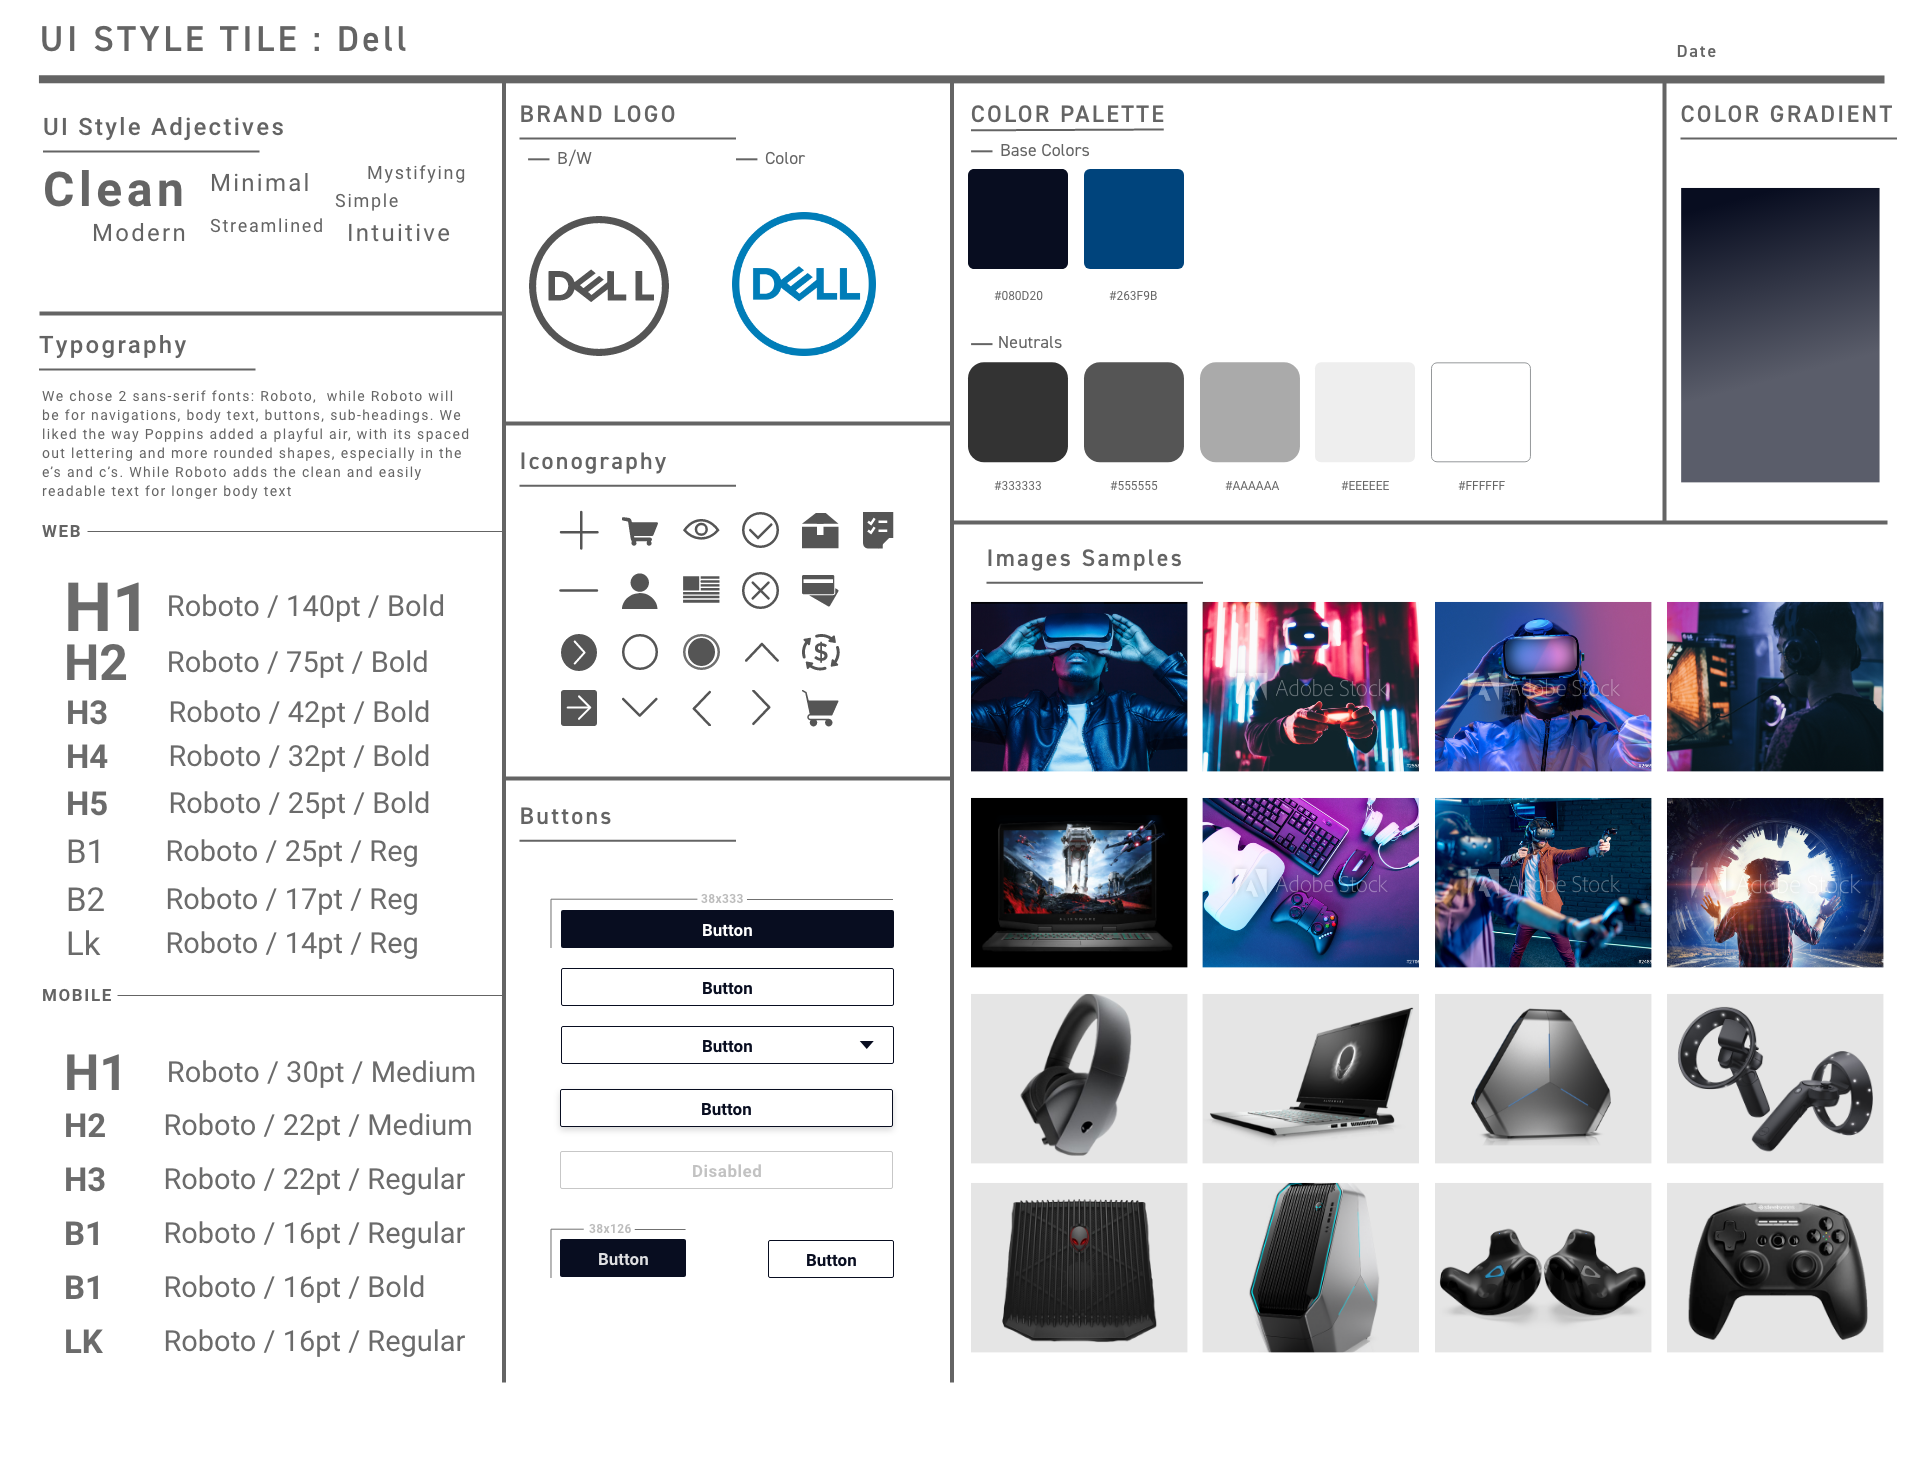
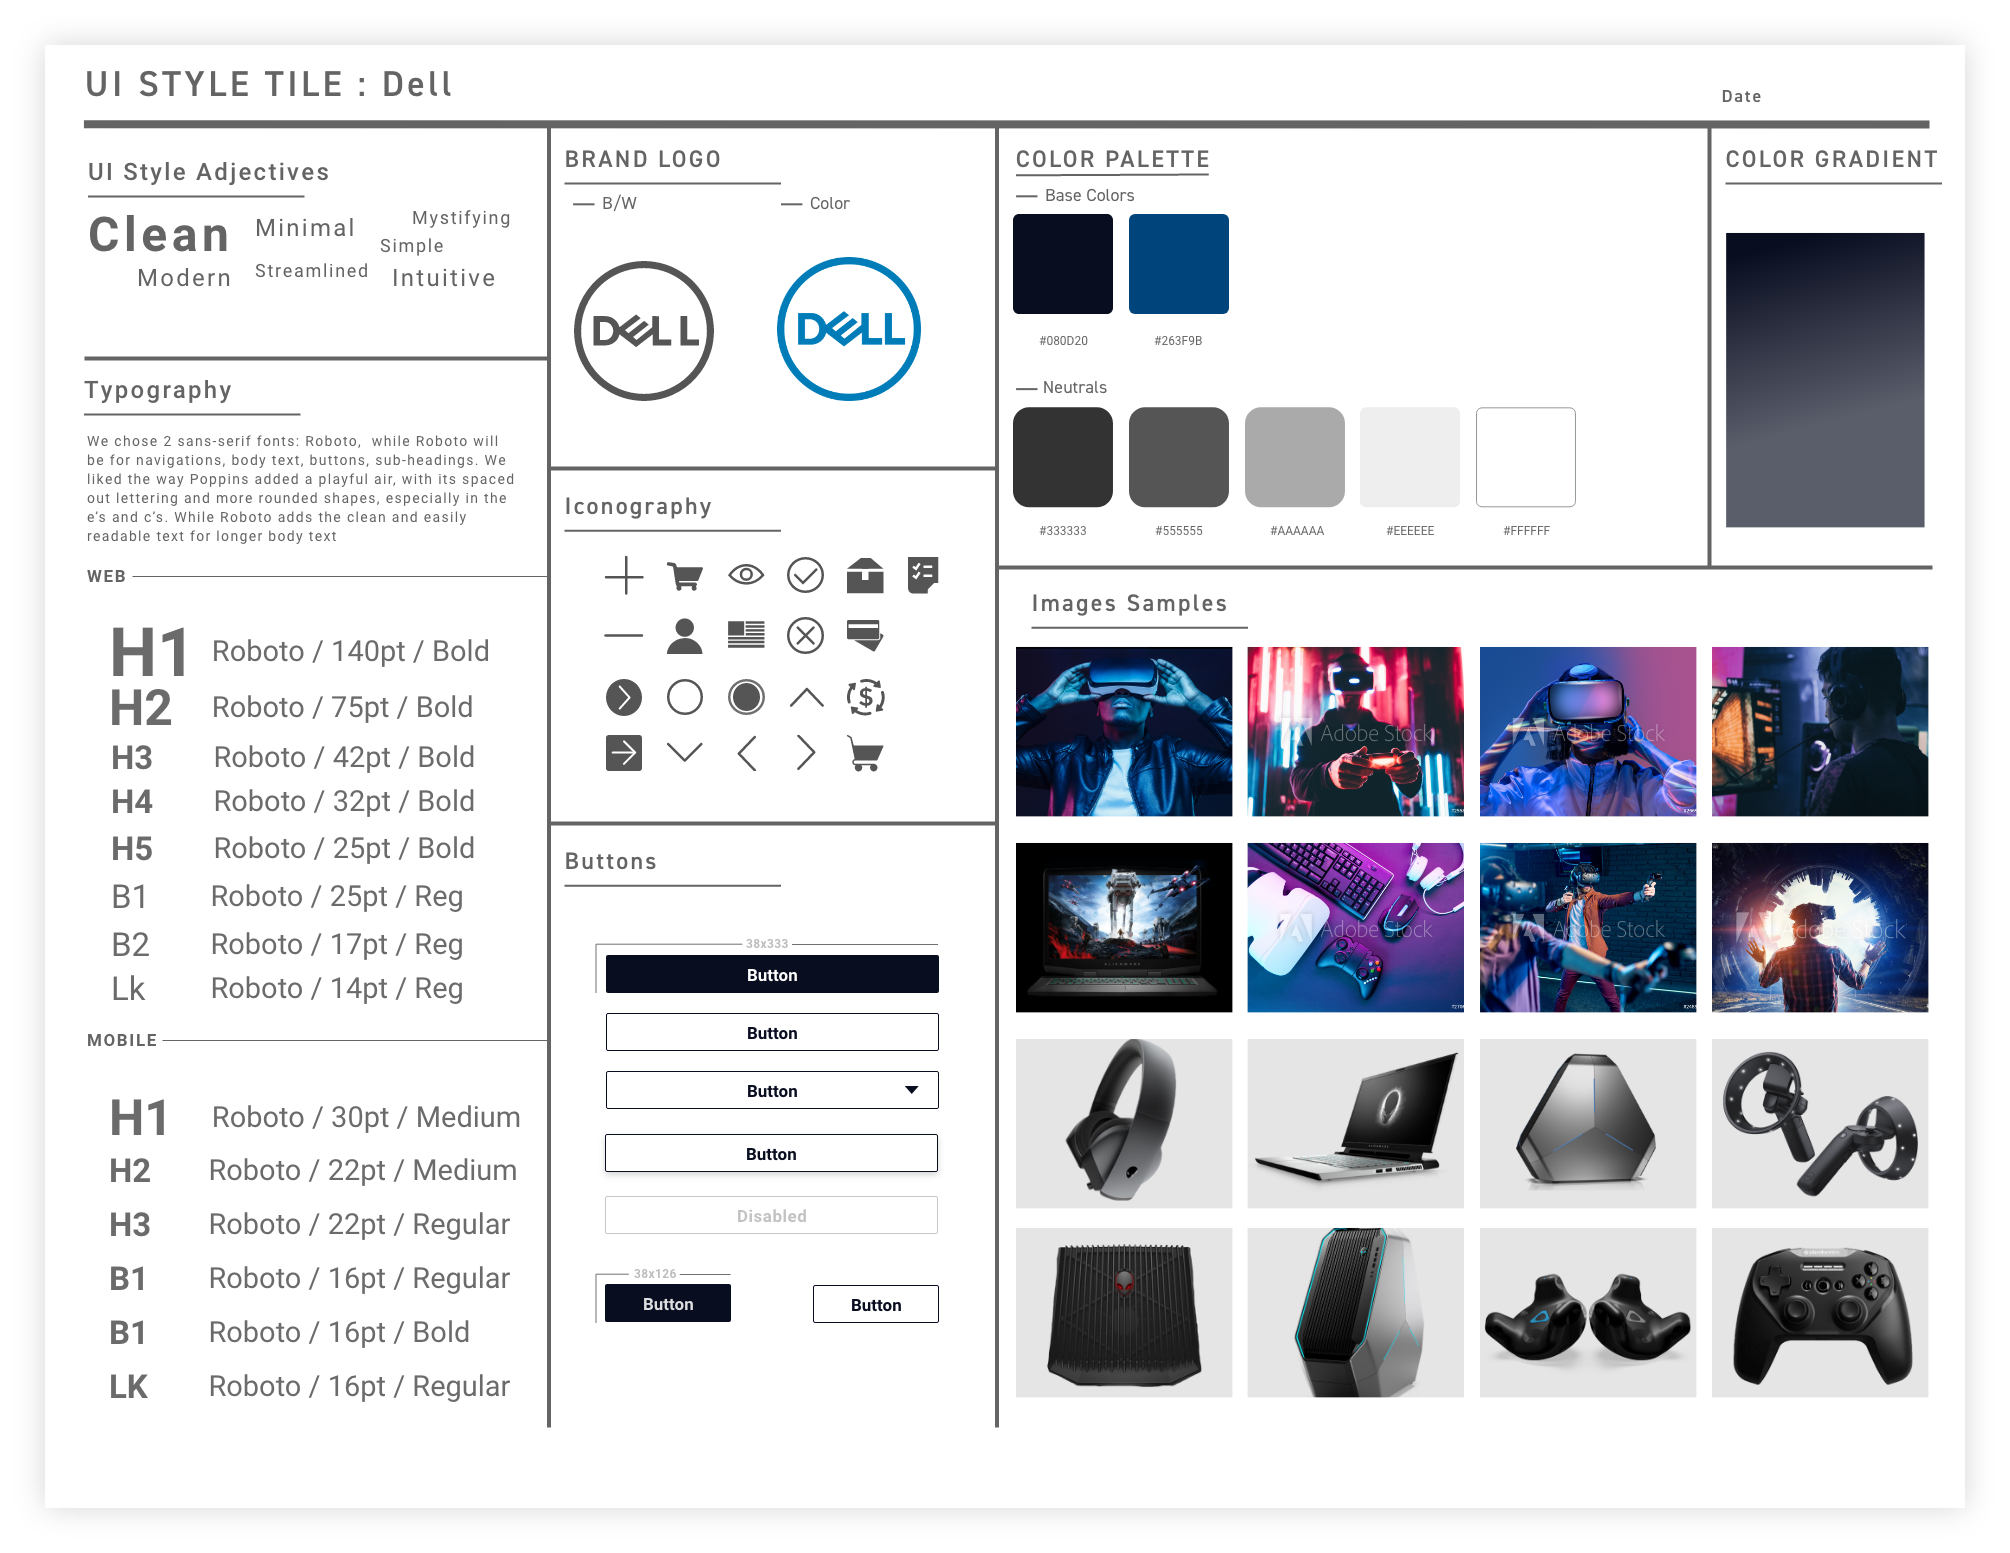
Minor changes to image size/shadows

Changed region(s): [[0.0312, 0.0, 1.0, 0.9228], [0.4062, 0.8305, 0.4688, 0.8612]]

diff --git a/Dell2.html b/Dell2.html
@@ -682,16 +682,15 @@
                 <div class="row">
                     <div class="col-md-3"></div>
                     <div class="col-md-6">
+                        <a href="https://jameshdz.github.io/dellfinalproject.github.io/" target="_blank"> <img
+                            src="images/portfolio/DELL images/HERO:Mockups/DELL hero – 1.png" class="clickableimg"></a>
                         <a href="https://jameshdz.github.io/dellfinalproject.github.io/" target="_blank">
                             <button type="button" class="btn"> View Coded Product </button>
                         </a>
                     </div>
                     <div class="col-md-3"></div>
                 </div> <br>
-                <hr>
-                <br> <br>
-                <a href="https://jameshdz.github.io/dellfinalproject.github.io/" target="_blank"> <img
-                        src="images/portfolio/DELL images/HERO:Mockups/DELL hero – 1.png" class="clickableimg"></a>
+              
             </div>
         </div>
     </div>
